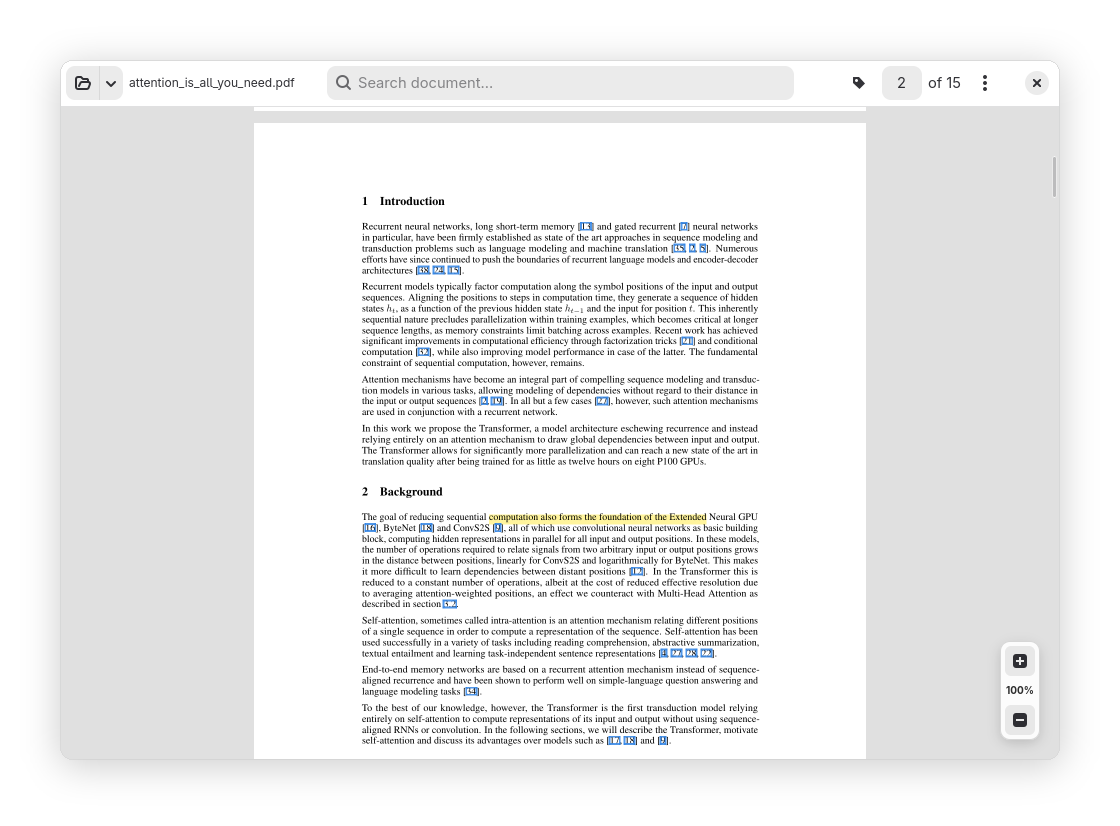
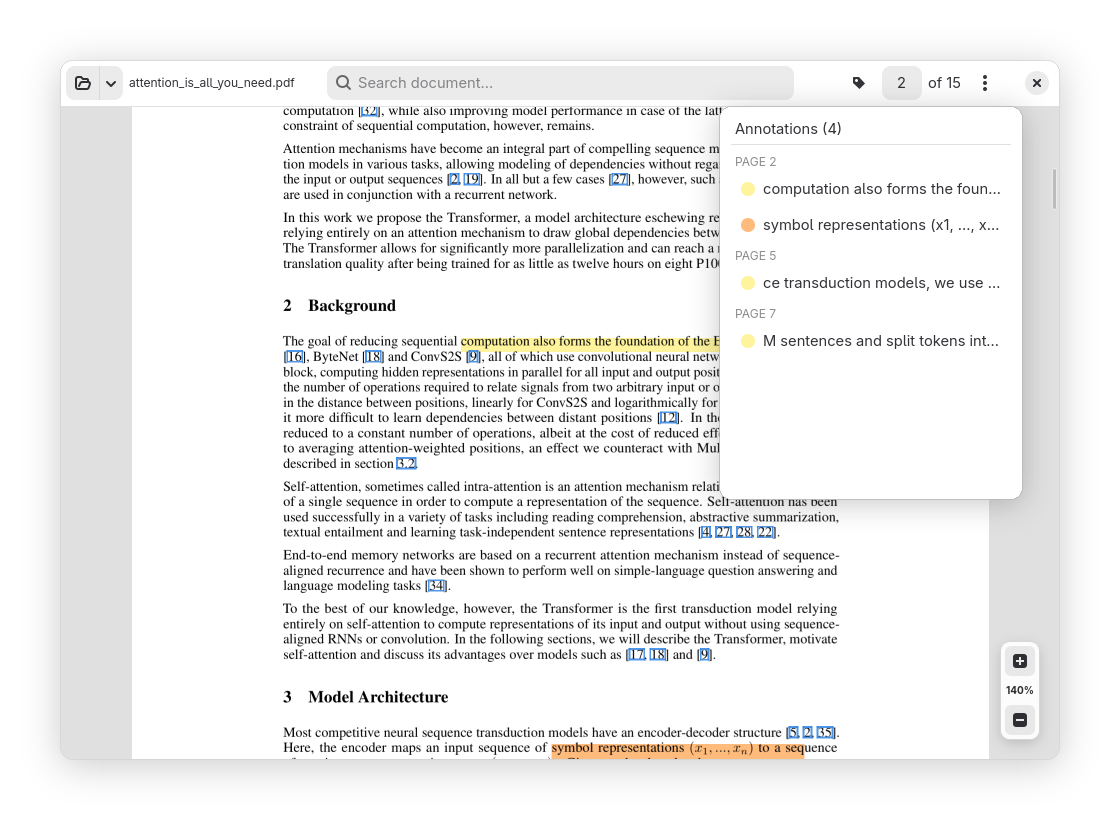
docs: update attention_annotations_popover screenshot with 12px popover card padding and 1.4x zoom

diff --git a/pdfatlas/ui/services/screenshot.py b/pdfatlas/ui/services/screenshot.py
@@ -28,9 +28,9 @@ class ScreenshotService:
             print("[ScreenshotService] Window has no active renderer yet", flush=True)
             return False
 
-        is_minimap = (
-            minimap_dialog is not None and minimap_dialog.get_visible()
-        )
+        popover_widget = getattr(window, "annotations_popover", None)
+        is_popover = popover_widget is not None and popover_widget.get_visible()
+        is_minimap = minimap_dialog is not None and minimap_dialog.get_visible()
 
         if is_minimap and minimap_dialog and screenshot_path:
             base_widget = window.get_content()
@@ -63,6 +63,47 @@ class ScreenshotService:
                 b_texture.save_to_png(base_path)
                 m_texture.save_to_png(modal_path)
                 ScreenshotService.composite_minimap(base_path, modal_path, screenshot_path)
+        elif is_popover and popover_widget and screenshot_path:
+            base_widget = window.get_content()
+            if not base_widget:
+                return False
+            bw = base_widget.get_width()
+            bh = base_widget.get_height()
+            b_rect = Graphene.Rect.alloc()
+            b_rect.init(0.0, 0.0, float(bw), float(bh))
+            b_snap = Gtk.Snapshot.new()
+            bg_color = Gdk.RGBA()
+            bg_color.parse("#ffffff")
+            b_snap.append_color(bg_color, b_rect)
+            Gtk.WidgetPaintable.new(base_widget).snapshot(b_snap, float(bw), float(bh))
+            b_texture = renderer.render_texture(b_snap.to_node(), b_rect)
+
+            target_w = popover_widget.get_child() or popover_widget
+            pw = target_w.get_width()
+            ph = target_w.get_height()
+            p_rect = Graphene.Rect.alloc()
+            p_rect.init(0.0, 0.0, float(pw), float(ph))
+            p_snap = Gtk.Snapshot.new()
+            p_snap.append_color(bg_color, p_rect)
+            Gtk.WidgetPaintable.new(target_w).snapshot(p_snap, float(pw), float(ph))
+            p_texture = renderer.render_texture(p_snap.to_node(), p_rect)
+
+            base_path = screenshot_path + ".base.png"
+            pop_path = screenshot_path + ".popover.png"
+            if b_texture and p_texture:
+                b_texture.save_to_png(base_path)
+                p_texture.save_to_png(pop_path)
+                pop_x = max(10, bw - pw - 210)
+                pop_y = 48
+                btn_widget = getattr(window, "annotations_btn", None)
+                if btn_widget and base_widget:
+                    success, pt = btn_widget.compute_point(base_widget, Graphene.Point.zero())
+                    if success:
+                        btn_x = float(pt.x)
+                        btn_w = float(btn_widget.get_width())
+                        pop_x = int(btn_x + (btn_w / 2.0) - (float(pw) / 2.0))
+                        pop_y = int(float(pt.y) + float(btn_widget.get_height()) + 6.0)
+                ScreenshotService.composite_popover(base_path, pop_path, screenshot_path, pop_x, pop_y)
         else:
             content_widget = window.get_content()
             if not content_widget or not screenshot_path:
@@ -139,6 +180,60 @@ class ScreenshotService:
 
         ScreenshotService.apply_gnome_shadow(out_path)
         print(f"[ScreenshotService] Composited minimap window to {out_path}", flush=True)
+
+    @staticmethod
+    def composite_popover(base_path: str, popover_path: str, out_path: str, x: int, y: int) -> None:
+        base = Image.open(base_path).convert("RGBA")
+        pop = Image.open(popover_path).convert("RGBA")
+
+        bw, bh = base.size
+        pw, ph = pop.size
+
+        padding = 12
+        pop_w = pw + padding * 2
+        pop_h = ph + padding * 2
+
+        # Create padded popover card
+        pop_card = Image.new("RGBA", (pop_w, pop_h), (255, 255, 255, 255))
+        pop_card.paste(pop, (padding, padding), mask=pop)
+
+        pop_radius = 12
+        pop_mask = Image.new("L", (pop_w, pop_h), 0)
+        draw_p = ImageDraw.Draw(pop_mask)
+        draw_p.rounded_rectangle((0, 0, pop_w - 1, pop_h - 1), radius=pop_radius, fill=255)
+
+        rounded_pop = Image.new("RGBA", (pop_w, pop_h), (0, 0, 0, 0))
+        rounded_pop.paste(pop_card, (0, 0), mask=pop_mask)
+
+        draw_b = ImageDraw.Draw(rounded_pop)
+        draw_b.rounded_rectangle(
+            (0, 0, pop_w - 1, pop_h - 1), radius=pop_radius, outline=(190, 190, 190, 160), width=1
+        )
+
+        shadow_blur = 14
+        shadow_opacity = 0.22
+        offset_y = 4
+
+        shadow_mask = Image.new("L", (bw, bh), 0)
+        s_draw = ImageDraw.Draw(shadow_mask)
+
+        shadow_box = (x, y + offset_y, x + pop_w - 1, y + offset_y + pop_h - 1)
+        s_draw.rounded_rectangle(shadow_box, radius=pop_radius, fill=int(255 * shadow_opacity))
+        shadow_mask = shadow_mask.filter(ImageFilter.GaussianBlur(shadow_blur))
+
+        dark_fill = Image.new("RGBA", (bw, bh), (10, 10, 16, 255))
+        base.paste(dark_fill, (0, 0), mask=shadow_mask)
+        base.paste(rounded_pop, (x, y), mask=rounded_pop)
+
+        base.save(out_path, format="PNG")
+
+        if os.path.exists(base_path):
+            os.remove(base_path)
+        if os.path.exists(popover_path):
+            os.remove(popover_path)
+
+        ScreenshotService.apply_gnome_shadow(out_path)
+        print(f"[ScreenshotService] Composited popover overlay window to {out_path}", flush=True)
 
     @staticmethod
     def apply_gnome_shadow(file_path: str) -> None:

diff --git a/scripts/generate_screenshots.py b/scripts/generate_screenshots.py
@@ -45,7 +45,8 @@ TASKS = [
         "attention_annotations_popover.png",
         ATTENTION_PDF,
         {
-            "scroll_y": 800,
+            "zoom": 1.4,
+            "scroll_y": 1450,
             "annotations_popover": True,
             "highlights": [
                 {
